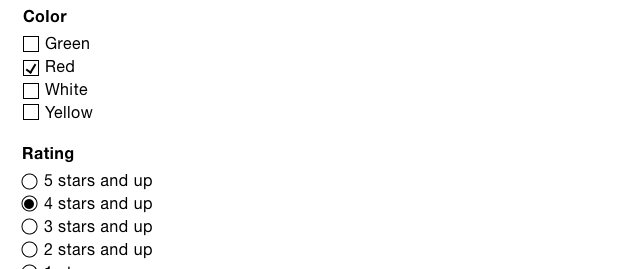
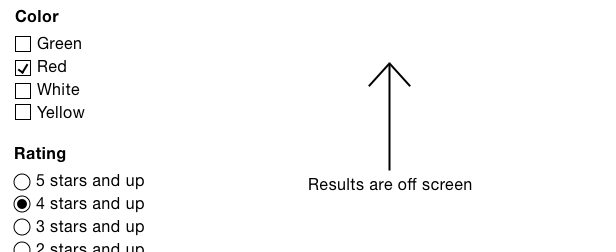
Filter prep and images

diff --git a/07-a-filter-form.md b/07-a-filter-form.md
@@ -27,7 +27,7 @@ There are two ways to let users filter: one at a time (interactive filtering) or
 
 Interactive filters update as soon as the user clicks a filter. The advantage is that users will see the results update as they go.
 
-![Clicking a filter refreshes the page immediately. If I want to select other filters, I have to click and refresh again.](https://d2mxuefqeaa7sj.cloudfront.net/s_82DB9B3C5532B175A4335F0BC737C2425A337F6A318E43BFE3E5981EE6778CFA_1514537967948_image.png)
+![Clicking a filter refreshes the page immediately. If I want to select other filters, I have to click and refresh again.](./images/07/interactive-filter.png)
 
 One disadvantage is that each click causes a page refresh, which is particularly frustrating if users are likely to choose several filters.
 
@@ -35,7 +35,7 @@ One disadvantage is that each click causes a page refresh, which is particularly
 
 Batch filters work by letting users choose a number of different filters, and then submitting them in one fell swoop. One advantage of this approach is that it’s faster, as users just make one request for several filters.
 
-![Clicking a filter selects the checkbox. I can choose as many as I want and submit them together by pressing “Apply filters”.](https://d2mxuefqeaa7sj.cloudfront.net/s_82DB9B3C5532B175A4335F0BC737C2425A337F6A318E43BFE3E5981EE6778CFA_1514538151952_image.png)
+![Clicking a filter selects the checkbox. I can choose as many as I want and submit them together by pressing “Apply filters”.](./images/07/batch-filter.png)
 
 One disadvantage of this approach is that a combination of filters could lead to zero-results. 
 
@@ -45,7 +45,7 @@ We’ve already discussed the concept of material honesty several times in the b
 
 As shown above, interactive filters tend to use links because they provide the expected behaviour—that clicking a filter immediately requests the new results. However, some sites style these links to look like checkboxes, by using CSS background images[^], for example. 
 
-![When a user sees checkboxes, they think they'll behave accordingly. When their expectation isn't matched, it causes confusion and frustration.](https://d2mxuefqeaa7sj.cloudfront.net/s_82DB9B3C5532B175A4335F0BC737C2425A337F6A318E43BFE3E5981EE6778CFA_1514468295988_image.png)
+![When a user sees checkboxes, they think they'll behave accordingly. When their expectation isn't matched, it causes confusion and frustration.](./images/07/materials.png)
 
 The problem is that a link should look (and behave) like a link—not a checkbox. Batch filters, made from real checkboxes, let users select several filters. Making links look like checkboxes would mean users wouldn’t expect clicking a filter would immediately request the new results. That’s materially dishonest and therefore deceptive.
 
@@ -65,7 +65,7 @@ Only conducting your own research for your problem can tell you the answer to th
 
 ## Layout
 
-![The Wallets category page](https://d2mxuefqeaa7sj.cloudfront.net/s_82DB9B3C5532B175A4335F0BC737C2425A337F6A318E43BFE3E5981EE6778CFA_1514618295072_image.png)
+![The Wallets category page](./images/07/layout.png)
 
 Before tackling the complexity of the filter form itself, it’s important to look at it in the context in which users are likely to use it. In modular design, we can fall prey to focusing so deeply on the individual components, that we forget to check how everything works when they combine to form the page (or journey).
 
@@ -241,14 +241,14 @@ When a web page is loading, the web browser shows a loading indicator. This load
 
 When AJAX is used we have to provide our own mechanism to inform users that the request is loading. This is normally the purview of a loading spinner.
 
-![Loading spinner](https://d2mxuefqeaa7sj.cloudfront.net/s_82DB9B3C5532B175A4335F0BC737C2425A337F6A318E43BFE3E5981EE6778CFA_1514790635542_image.png)
+![Loading spinner](./images/07/loading-spinner.png)
 
 But, you should note that, unlike the browser, it doesn’t tell users how long is left, or if the connection is slow. In the next chapter, we’ll look at ways to provide an accurate progress bar with AJAX.
 
 Also, the loading spinner, in it’s current form, is only determinable by sighted users. To provide a comparable experience (principle 1) for screen reader users, we’ll employ a live region (as explained in chapters 2, 3 and 5)..
 
 ```HTML
-	<div aria-live="assertive" role="alert" class="vh">Loading products.</div>
+<div aria-live="assertive" role="alert" class="vh">Loading products.</div>
 ```
 
 When the products are loaded:
@@ -304,7 +304,7 @@ FilterRequester.prototype.onPopState = function(e) {
 
 Another problem with making updates with AJAX is ensuring that notice the results update. Take a situation whereby the filter component is very long and scrolls beyond the fold. Imagine, that while selecting a filter toward the bottom, it returns too few results that the user sees a blank screen.
 
-![The filters are so long that the results are off screen at the top.](https://d2mxuefqeaa7sj.cloudfront.net/s_82DB9B3C5532B175A4335F0BC737C2425A337F6A318E43BFE3E5981EE6778CFA_1514790799968_image.png)
+![The filters are so long that the results are off screen at the top.](./images/07/too-long.png)
 
 We can’t move focus as that defeats the entire point of introducing AJAX in the first place. There are a two ways we might solve this problem.
 
@@ -340,39 +340,38 @@ If your filter has many categories and many options within those categories, we 
 
 Additionally, we can collapse the categories. This is advantageous for a number of reasons:
 
-
 1. The submit button is more like to draw users’ attention as it will be in view.
 2. AJAX-injected results will likely be in view.
 3. Users shouldn’t have to scroll nearly as much, while still being able to scan the filter categories.
 4. Keyboard users won’t have to tab through all the filters to get to the one they want. This is because hidden content isn’t focusable.
 
-[Illustration]
-
 ### Enhancing The Mark-up
 
 The basic mark-up consists of standard form fields. As an example, this is what the color field mark-up looks like:
 
-
-    <fieldset class="field">
-      <legend>
-        <span class="field-legend">Color</span>
-      </legend>
-      <div class="field-options">
-        <!-- checkboxes here -->
-      </div>
-    </fieldset>
+```HTML
+<fieldset class="field">
+  <legend>
+    <span class="field-legend">Color</span>
+  </legend>
+  <div class="field-options">
+    <!-- checkboxes here -->
+  </div>
+</fieldset>
+```
 
 The JavaScript-enhanced mark-up will look like this:
 
-
-    <fieldset class="field">
-      <legend>
-        <button type="button" aria-expanded="false">Color</button>
-      </legend>
-      <div class="field-options hidden">
-        <!-- checkboxes here -->
-      </div>
-    </fieldset>
+```HTML
+<fieldset class="field">
+  <legend>
+    <button type="button" aria-expanded="false">Color</button>
+  </legend>
+  <div class="field-options hidden">
+    <!-- checkboxes here -->
+  </div>
+</fieldset>
+```
 
 The legend now contains a button element with a `type="button"`  attribute which stops it from submitting the form. We don’t want it do that, we just want it to expand and collapse the filters.
 
@@ -385,6 +384,8 @@ The checkboxes are hidden by the `hidden` class as first explained in chapter 1,
 The button has an `aria-expanded` attribute, initially set to false which denotes that the section is collapsed. When the button is clicked this will be switched to true, which means it’s expanded. For screen readers, this means the button will be announced as “color, collapsed, button” (or similar, depending on the screen reader).
 
 We also need to communicate the state of the component visually. Replacing the entire legend with a button element is not good ideal because we still want the legend to look like what it is, a legend. By the same token, we the interface needs to make it clear that clicking the legend will toggle the filter.
+
+[Collapsible](./images/07/collapsible.png)
 
 We can signify this functionality with the conventional plus (can be expanded) and minus (can be collapsed) symbols, though up and down triangles may work just as well. Let’s make use of a lightweight SVG icon placed inside the button:
 
@@ -463,8 +464,7 @@ By applying this principle, we ensure that user get the same, familiar conventio
 To do this, we need to make sure that users can see the results update as they filter. We can achieve this by having the filters appear on top of the results without completely covering them. It works because users can see the results on the left, while filters are selected on the right.
 
 
-![Both Amazon (left) and Ebay (right) have the filter appear without completely covering the results. This way users can see the updates as they filter.](https://d2mxuefqeaa7sj.cloudfront.net/s_82DB9B3C5532B175A4335F0BC737C2425A337F6A318E43BFE3E5981EE6778CFA_1514802969106_image.png)
-
+![Both Amazon (left) and Ebay (right) have the filter appear without completely covering the results. This way users can see the updates as they filter.](./images/07/mobile-tray.png)
 
 Unfortunately, I can’t take credit for this. I found this technique described in “Mobile Faceted Search with a Tray: New and Improved Design Pattern”[^] by Kathyrn Whitenton which is worth reading in full.
 
@@ -487,10 +487,10 @@ We can achieve this by adding a little component to the top of the filter like t
 
 **Notes:**
 
-
 - The section is appropriately labelled with a level 3 (h3) heading as it sits under the level 2 “Filter” heading.
 - The surrounding `div` is labelled by heading. This means the heading will be announced by screen reader users who have tabbed to (focusable) links.
-# Summary
+
+## Summary
 
 In this chapter we’ve nimbly covered several design details that often crop up with filters. While we’ve persistently tried to keep to convention, non-conventional approaches have been explored that may be needed to satisfy user’s new expectations. Expectations, that have, unfortunately, been born out of the many materially dishonest interfaces present on the web today.
 
@@ -519,9 +519,4 @@ TBD
 ## Todo?
 
 - “Refine” vs “Filter”
-
-
-## Range Input
-
-The range input is a new, HTML5 input that allows users to select a value within a range by sliding the handle along an axis. It shouldn’t be used because X.
-
+- The range input is a new, HTML5 input that allows users to select a value within a range by sliding the handle along an axis. It shouldn’t be used because X.
